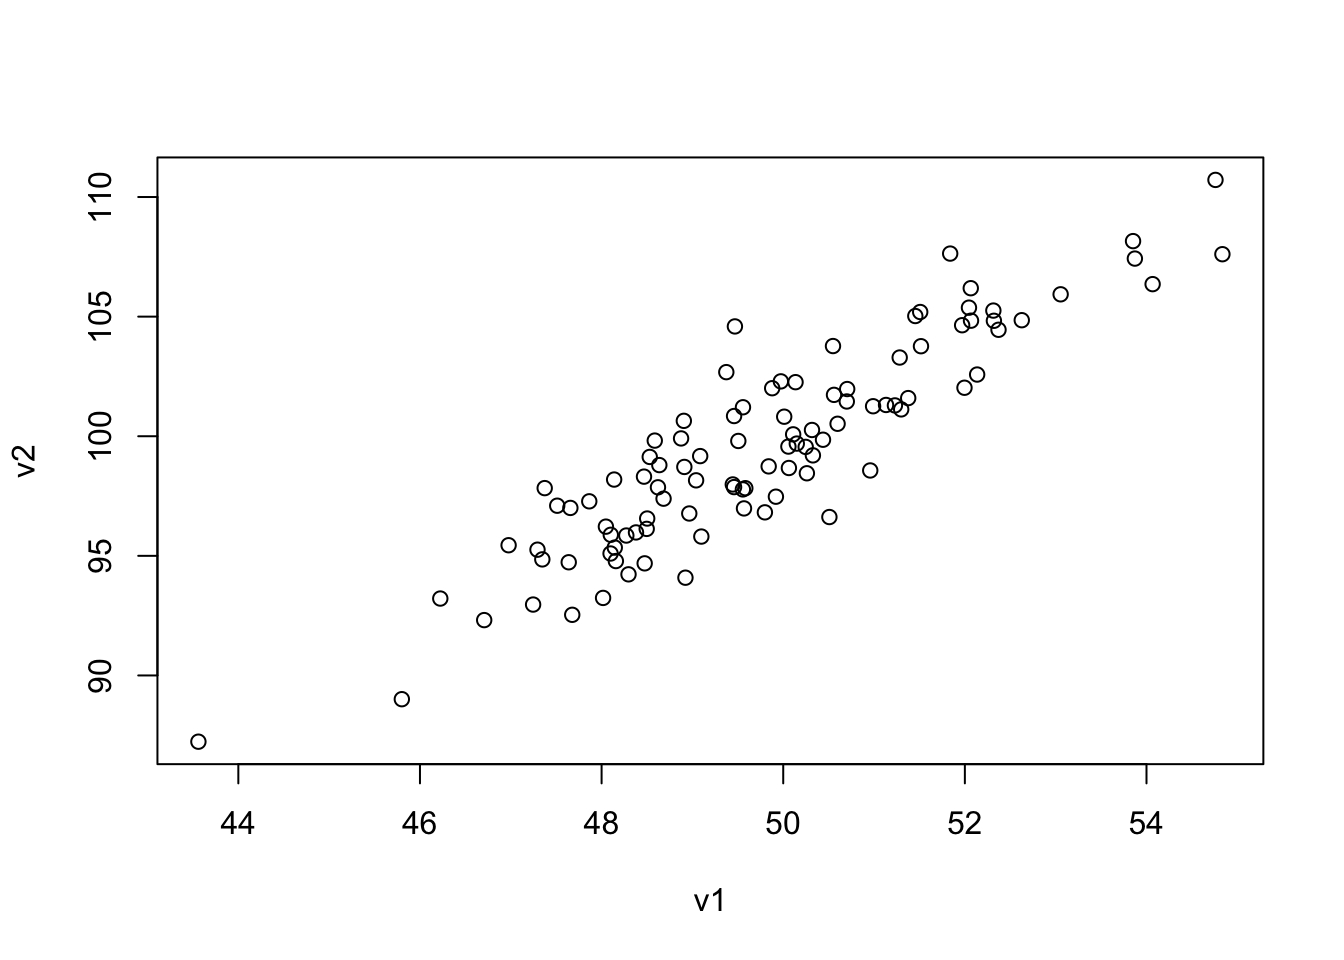
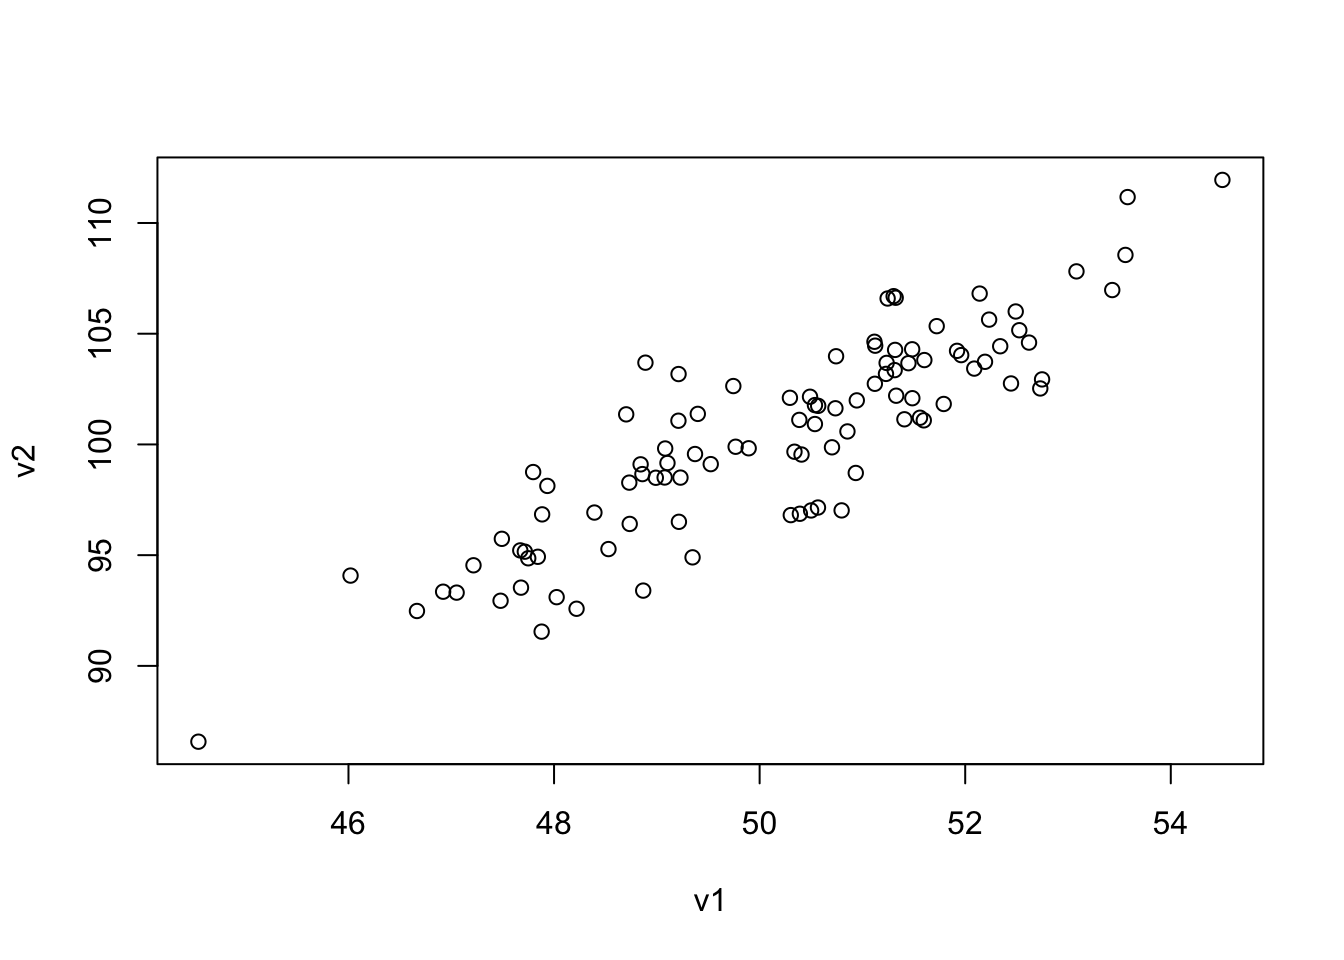
updated docs

diff --git a/docs/labs/lab1.html b/docs/labs/lab1.html
@@ -403,27 +403,27 @@ window.Quarto = {
 <span id="cb24-5"><a href="#cb24-5" aria-hidden="true" tabindex="-1"></a><span class="co"># Look at the first 10 values</span></span>
 <span id="cb24-6"><a href="#cb24-6" aria-hidden="true" tabindex="-1"></a><span class="fu">head</span>(random_data, <span class="dv">10</span>)</span></code></pre></div><button title="Copy to Clipboard" class="code-copy-button"><i class="bi"></i></button></div>
 <div class="cell-output cell-output-stdout">
-<pre><code> [1]  97.90974 117.79309  95.28574  96.00688  77.51782  88.21455 114.43590
- [8] 113.36509 101.19029  77.11395</code></pre>
+<pre><code> [1]  70.49300 105.89109 105.34779  85.31829  85.47119 123.82059  81.76553
+ [8] 115.40936  91.79384  87.35015</code></pre>
 </div>
 </div>
 <div class="cell">
 <div class="code-copy-outer-scaffold"><div class="sourceCode cell-code" id="cb26"><pre class="sourceCode r code-with-copy"><code class="sourceCode r"><span id="cb26-1"><a href="#cb26-1" aria-hidden="true" tabindex="-1"></a><span class="co"># Calculate summary statistics for this data</span></span>
 <span id="cb26-2"><a href="#cb26-2" aria-hidden="true" tabindex="-1"></a><span class="fu">mean</span>(random_data)</span></code></pre></div><button title="Copy to Clipboard" class="code-copy-button"><i class="bi"></i></button></div>
 <div class="cell-output cell-output-stdout">
-<pre><code>[1] 98.3722</code></pre>
+<pre><code>[1] 99.613</code></pre>
 </div>
 <div class="code-copy-outer-scaffold"><div class="sourceCode cell-code" id="cb28"><pre class="sourceCode r code-with-copy"><code class="sourceCode r"><span id="cb28-1"><a href="#cb28-1" aria-hidden="true" tabindex="-1"></a><span class="fu">sd</span>(random_data)</span></code></pre></div><button title="Copy to Clipboard" class="code-copy-button"><i class="bi"></i></button></div>
 <div class="cell-output cell-output-stdout">
-<pre><code>[1] 15.7295</code></pre>
+<pre><code>[1] 15.80305</code></pre>
 </div>
 <div class="code-copy-outer-scaffold"><div class="sourceCode cell-code" id="cb30"><pre class="sourceCode r code-with-copy"><code class="sourceCode r"><span id="cb30-1"><a href="#cb30-1" aria-hidden="true" tabindex="-1"></a><span class="fu">min</span>(random_data)</span></code></pre></div><button title="Copy to Clipboard" class="code-copy-button"><i class="bi"></i></button></div>
 <div class="cell-output cell-output-stdout">
-<pre><code>[1] 58.9765</code></pre>
+<pre><code>[1] 65.90864</code></pre>
 </div>
 <div class="code-copy-outer-scaffold"><div class="sourceCode cell-code" id="cb32"><pre class="sourceCode r code-with-copy"><code class="sourceCode r"><span id="cb32-1"><a href="#cb32-1" aria-hidden="true" tabindex="-1"></a><span class="fu">max</span>(random_data)</span></code></pre></div><button title="Copy to Clipboard" class="code-copy-button"><i class="bi"></i></button></div>
 <div class="cell-output cell-output-stdout">
-<pre><code>[1] 144.8962</code></pre>
+<pre><code>[1] 128.8129</code></pre>
 </div>
 </div>
 <p><strong>Your turn:</strong> Create a vector of 30 random numbers with mean = 50 and sd = 5. Calculate its summary statistics.</p>

diff --git a/docs/lectures/week1-r-intro-slides.html b/docs/lectures/week1-r-intro-slides.html
@@ -821,7 +821,7 @@ sample estimates:
 
 <div class="code-copy-outer-scaffold"><div class="sourceCode cell-code" id="cb54"><pre class="sourceCode numberSource r number-lines code-with-copy"><code class="sourceCode r"><span id="cb54-1"><a></a><span class="fu">cor</span>(df_heights<span class="sc">$</span>parent_heights, df_heights<span class="sc">$</span>child_heights)</span></code></pre></div><button title="Copy to Clipboard" class="code-copy-button"><i class="bi"></i></button></div>
 <div class="cell-output cell-output-stdout">
-<pre><code>[1] 0.8251315</code></pre>
+<pre><code>[1] 0.8860554</code></pre>
 </div>
 </div>
 <img data-src="week1-r-intro_files/figure-revealjs/simulating-1.png" width="960" class="r-stretch"></section>

diff --git a/docs/lectures/week1-r-intro.html b/docs/lectures/week1-r-intro.html
@@ -934,7 +934,7 @@ sample estimates:
 </div>
 <div class="code-copy-outer-scaffold"><div class="sourceCode cell-code" id="cb54"><pre class="sourceCode numberSource r number-lines code-with-copy"><code class="sourceCode r"><span id="cb54-1"><a href="#cb54-1"></a><span class="fu">cor</span>(df_heights<span class="sc">$</span>parent_heights, df_heights<span class="sc">$</span>child_heights)</span></code></pre></div><button title="Copy to Clipboard" class="code-copy-button"><i class="bi"></i></button></div>
 <div class="cell-output cell-output-stdout">
-<pre><code>[1] 0.8161554</code></pre>
+<pre><code>[1] 0.8495715</code></pre>
 </div>
 </div>
 </section>

diff --git a/docs/schedule.html b/docs/schedule.html
@@ -275,7 +275,7 @@ ul.task-list li input[type="checkbox"] {
 <td>2</td>
 <td>F</td>
 <td>10-10</td>
-<td>Hands-on data cleaning <strong>[HANDS-ON]</strong></td>
+<td><a href="./hands_on/week2.html">Hands-on data cleaning <strong>[HANDS-ON]</strong></a></td>
 <td><strong>Concept quiz</strong></td>
 <td></td>
 </tr>
